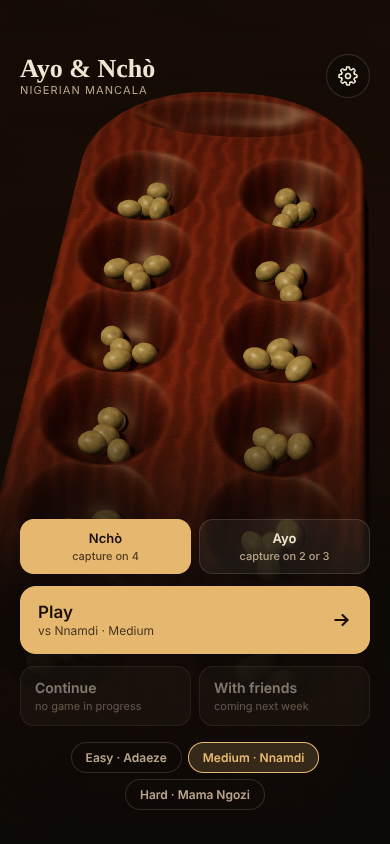
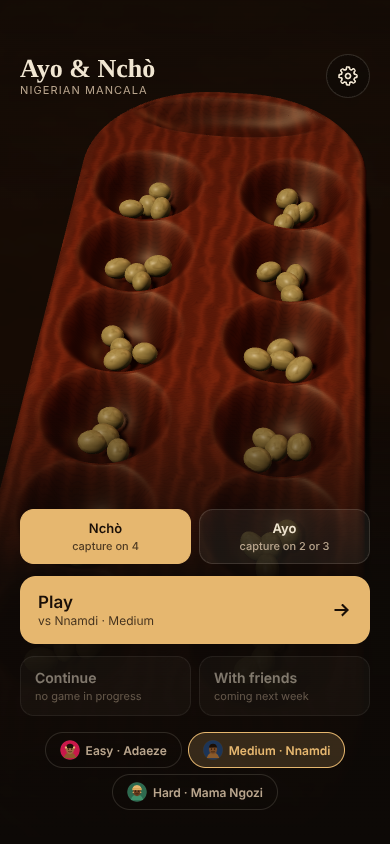
V1: opponents with faces, bios and lines; hint button; performance pass (pixel ratio, shadow map, pause when hidden)
Claude-Session: https://claude.ai/code/session_019fDoW7AW2ikR5MwVqx2pTM

diff --git a/web/game.js b/web/game.js
@@ -2,6 +2,7 @@
 import * as THREE from 'three';
 import { newGame, applyMove, legalMoves, replay, RULES } from '/engine/ayo.js';
 import { SeedSim } from './physics.js';
+import { CHARACTERS, line } from './characters.js';
 import { buildBoard, buildTable, buildLights, seedMaterial, seedGeometry, SEED_R, pitCenters, storeCenters, surfaceY, bowl, PIT_R, PIT_D, STORE_RX, STORE_RZ, STORE_D, BT } from './board.js';
 
 const $ = (s) => document.querySelector(s);
@@ -12,13 +13,14 @@ const prefs = { get: (k, d) => { try { return localStorage.getItem('ayo.' + k) ?
 // ---------- renderer / scene ----------
 const canvas = $('#c');
 const renderer = new THREE.WebGLRenderer({ canvas, antialias: true, preserveDrawingBuffer: !!(params.get('still') || params.get('capture')) });
-renderer.setPixelRatio(Math.min(window.devicePixelRatio || 1, 2));
+const phone = Math.min(innerWidth, innerHeight) < 500;
+renderer.setPixelRatio(Math.min(window.devicePixelRatio || 1, phone ? 1.5 : 2));
 renderer.shadowMap.enabled = true; renderer.shadowMap.type = THREE.PCFSoftShadowMap;
 renderer.toneMapping = THREE.ACESFilmicToneMapping; renderer.toneMappingExposure = 1.15; renderer.outputColorSpace = THREE.SRGBColorSpace;
 const scene = new THREE.Scene(); scene.background = new THREE.Color(0x0d0906);
 const camera = new THREE.PerspectiveCamera(38, 1, 0.05, 20);
 const finish = params.get('finish') || prefs.get('finish', 'mahogany');
-const board = buildBoard(scene, finish); buildTable(scene); buildLights(scene);
+const board = buildBoard(scene, finish); buildTable(scene); buildLights(scene, phone || (window.devicePixelRatio || 1) > 2 ? 1024 : 2048);
 const seedMat = seedMaterial();
 const sim = new SeedSim();
 
@@ -163,9 +165,24 @@ let state = newGame(settings.game, settings.rules()); let busy = false; let sele
 let stats = { biggest: 0, captures: 0, started: Date.now() };
 
 const worker = new Worker('./ai-worker.js', { type: 'module' });
-function aiMove(s) { return new Promise((res) => { worker.onmessage = (e) => res(e.data); worker.postMessage({ state: s, level }); }); }
+function aiMove(s, lvl = level) { return new Promise((res) => { worker.onmessage = (e) => res(e.data); worker.postMessage({ state: s, level: lvl }); }); }
+let hintedAt = -1;
+async function hint() {
+  if (busy || state.over || state.turn !== you || hintedAt === state.moves.length) return;
+  hintedAt = state.moves.length; $('#hintBtn').disabled = true;
+  const m = await aiMove(state, 'hard'); if (m === null || state.turn !== you) return;
+  const [x, z] = pitCenters[m]; board.ring.position.x = x; board.ring.position.z = z; board.ring.visible = true; board.glow.position.set(x, BT + 0.08, z); board.glow.visible = true; click(1.6, 0.05);
+  $('#hint').textContent = `${CHARACTERS.hard.name} would play that one`;
+  await wait(1500); if (selected === null) { board.ring.visible = false; board.glow.visible = false; } showTurn();
+}
 
+function paintFaces() {
+  $('#oppFace').innerHTML = CHARACTERS[level].face;
+  document.querySelectorAll('.pill[data-level]').forEach((b) => { b.querySelector('.face').innerHTML = CHARACTERS[b.dataset.level].face; });
+  document.querySelectorAll('[data-face]').forEach((f) => { f.innerHTML = CHARACTERS[f.dataset.face].face; });
+}
 function refreshStatic() {
+  paintFaces();
   state.pits.forEach((n, i) => setBadge(i, n));
   $('#myScore').textContent = state.stores[0]; $('#oppScore').textContent = state.stores[1];
   $('#oppName').textContent = levelLabel(level);
@@ -177,6 +194,7 @@ function showTurn() {
   $('#oppSub').textContent = state.over ? '' : mine ? 'waiting' : 'thinking…';
   $('#hint').textContent = state.over ? '' : mine ? (selected === null ? 'tap a pit on your side to sow' : 'tap again to sow, or pick another') : '';
   $('#undo').disabled = busy || state.moves.length < 2;
+  $('#hintBtn').disabled = !mine || busy || hintedAt === state.moves.length;
 }
 function select(i) {
   selected = i; const [x, z] = pitCenters[i]; board.ring.position.x = x; board.ring.position.z = z; board.ring.visible = true;
@@ -221,6 +239,8 @@ async function play(pit) {
   const prevStores = state.stores; const mover = state.turn; state = next; busy = true; deselect(); $('#undo').disabled = true;
   if (mover === you) { const got = state.stores[0] - prevStores[0]; stats.biggest = Math.max(stats.biggest, got); stats.captures += events.filter((e) => e.type === 'capture' && e.by === you).length; }
   tipFor(events);
+  const aiGot = state.stores[1] - prevStores[1], meGot = state.stores[0] - prevStores[0];
+  if (mover === ai && aiGot > 0) setTimeout(() => say('capture'), 400); else if (mover === you && meGot >= 4) setTimeout(() => say('lost'), 400);
   await animate(events, prevStores);
   busy = false; refreshStatic(); save();
   if (state.over) return gameOver();
@@ -256,6 +276,11 @@ function paintSettings() {
   const sw = (name, on) => $(`[data-set="${name}"].sw`).setAttribute('aria-checked', String(on));
   sw('last8', r.last8); sw('badges', prefs.get('badges', '1') === '1'); sw('sound', soundOn()); sw('haptics', prefs.get('haptics', '1') === '1');
   document.querySelectorAll('.choose[data-level]').forEach((b) => { const on = b.dataset.level === level; b.setAttribute('aria-pressed', on); b.textContent = on ? 'Chosen' : 'Choose'; });
+}
+let bubbleTimer = null;
+function say(moment) {
+  const text = line(level, moment); if (!text || params.get('still')) return;
+  const b = $('#bubble'); b.textContent = text; b.hidden = false; clearTimeout(bubbleTimer); bubbleTimer = setTimeout(() => { b.hidden = true; }, 2600);
 }
 function toast(text) { const t = document.createElement('div'); t.className = 'toast'; t.textContent = text; body.appendChild(t); setTimeout(() => t.remove(), 1800); }
 
@@ -303,7 +328,7 @@ function gameOver() {
   $('#goMe').classList.toggle('win', a >= b); $('#goOpp').classList.toggle('win', b > a);
   $('#goBig').textContent = `${stats.biggest} seeds`; $('#goCaps').textContent = stats.captures;
   const secs = Math.round((Date.now() - stats.started) / 1000); $('#goTime').textContent = `${Math.floor(secs / 60)}:${String(secs % 60).padStart(2, '0')}`;
-  $('#gameover').hidden = false; prefs.set('game', 'null');
+  $('#gameover').hidden = false; prefs.set('game', 'null'); say(win ? 'lose' : 'win');
   if (win) { click(1.5, 0.15); setTimeout(() => click(2, 0.15), 120); setTimeout(() => click(2.5, 0.15), 240); }
 }
 $('#replayBtn').addEventListener('click', async () => {
@@ -330,12 +355,12 @@ function resume() {
   try { const g = JSON.parse(prefs.get('game', 'null')); if (g && g.moves && g.moves.length && !params.get('still')) { state = replay(g.moves, g.variant, g.rules); level = g.level || level; stats = g.stats || stats; return !state.over; } } catch {}
   return false;
 }
-function newRound() { state = newGame(settings.game, settings.rules()); stats = { biggest: 0, captures: 0, started: Date.now() }; layoutFromState(state); refreshStatic(); $('#gameover').hidden = true; deselect(); save(); paintRules(); }
+function newRound() { state = newGame(settings.game, settings.rules()); stats = { biggest: 0, captures: 0, started: Date.now() }; layoutFromState(state); refreshStatic(); $('#gameover').hidden = true; deselect(); save(); paintRules(); setTimeout(() => say('start'), 600); }
 function kickAi() { if (state.turn === ai && !state.over) (async () => { busy = true; await wait(400); busy = false; const m = await aiMove(state); if (m !== null) { select(m); await wait(500); await play(m); } })(); }
 function undo() {
   if (busy || state.moves.length < 2) return;
   const moves = state.moves.slice(0, state.turn === you ? -2 : -1);
-  state = replay(moves, state.variant, state.rules); layoutFromState(state); refreshStatic(); deselect(); save(); click(0.7, 0.06);
+  state = replay(moves, state.variant, state.rules); layoutFromState(state); refreshStatic(); deselect(); save(); click(0.7, 0.06); say('undo');
 }
 function paintRules() { $('#rulesNcho').hidden = state.variant !== 'ncho'; $('#rulesAyo').hidden = state.variant !== 'ayo'; $('#gameName').textContent = state.variant === 'ncho' ? 'Nchò' : 'Ayo'; }
 
@@ -391,6 +416,7 @@ canvas.addEventListener('wheel', (e) => { dist += e.deltaY * 0.001; clampDist();
 function shake(pit) { const [x, z] = pitCenters[pit]; board.ring.position.x = x; board.ring.position.z = z; board.ring.visible = true; tween(260, (t) => { board.ring.position.x = x + Math.sin(t * Math.PI * 4) * 0.006 * (1 - t); }).then(() => { if (selected === null) board.ring.visible = false; else { board.ring.position.x = pitCenters[selected][0]; board.ring.position.z = pitCenters[selected][1]; } }); click(0.5, 0.05); }
 
 $('#undo').addEventListener('click', undo);
+$('#hintBtn').addEventListener('click', hint);
 $('#rematch').addEventListener('click', () => { newRound(); showScreen('play'); });
 $('#rulesBtn').addEventListener('click', () => { $('#rules').hidden = !$('#rules').hidden; });
 $('#rulesClose').addEventListener('click', () => { $('#rules').hidden = true; });
@@ -413,7 +439,11 @@ let frames = 0, last = performance.now();
 function loop(now) {
   runTweens(now); sim.step((now - last) / 1000, now); if (idle && !reduceMotion) theta += (now - last) * 0.00004; last = now; placeCam(); placeBadges(); renderer.render(scene, camera); frames++;
   if (frames === 3) { window.__done = true; if (params.get("still")) return; }
-  if (window.__freeze) return;
-  requestAnimationFrame(loop);
+  if (window.__freeze || document.hidden) return;
+  let hiddenAt = null;
+document.addEventListener('visibilitychange', () => { if (document.hidden) hiddenAt = performance.now(); else { last = performance.now(); if (hiddenAt !== null) requestAnimationFrame(loop); hiddenAt = null; } });
+requestAnimationFrame(loop);
 }
+let hiddenAt = null;
+document.addEventListener('visibilitychange', () => { if (document.hidden) hiddenAt = performance.now(); else { last = performance.now(); if (hiddenAt !== null) requestAnimationFrame(loop); hiddenAt = null; } });
 requestAnimationFrame(loop);

diff --git a/web/index.html b/web/index.html
@@ -109,6 +109,14 @@ button{font-family:inherit}
 .mini div{display:flex;flex-direction:column;gap:2px;padding:10px 12px;border-radius:12px;background:var(--soft)}
 .mini span{font-size:11px;color:var(--muted)}.mini b{font-size:15px;font-weight:600}
 
+/* opponent faces and speech */
+.who{display:flex;align-items:center;gap:10px;min-width:0}
+.face{display:inline-block;width:36px;height:36px;border-radius:50%;overflow:hidden;flex:none;background:var(--soft);border:1px solid var(--line)}
+.face.s{width:20px;height:20px;margin-right:6px;vertical-align:middle;border:0}
+.face.m{width:40px;height:40px}
+.pill{display:inline-flex;align-items:center}
+#bubble{position:fixed;left:max(18px,env(safe-area-inset-left,0px));top:calc(env(safe-area-inset-top,0px) + 64px);max-width:min(70vw,280px);background:var(--card);border:1px solid rgba(230,183,111,.35);border-radius:14px 14px 14px 4px;padding:9px 12px;font-size:13px;line-height:1.4;box-shadow:0 10px 30px rgba(0,0,0,.5);animation:pop .25s ease-out;pointer-events:none;z-index:2}
+.wide #bubble{left:max(24px,env(safe-area-inset-left,0px));top:calc(env(safe-area-inset-top,0px) + 100px)}
 /* tutorial */
 #tip{position:fixed;left:50%;transform:translateX(-50%);bottom:calc(env(safe-area-inset-bottom,0px) + 150px);width:min(86vw,320px);background:var(--card);border:1px solid rgba(230,183,111,.35);border-radius:14px;padding:12px 14px;display:flex;gap:10px;align-items:flex-start;box-shadow:0 12px 40px rgba(0,0,0,.5);animation:pop .3s ease-out;z-index:3}
 #tip p{margin:0;font-size:13px;line-height:1.45;flex:1}
@@ -134,12 +142,14 @@ button{font-family:inherit}
 <body class="screen">
 <canvas id="c" aria-label="Ayo board"></canvas>
 <div id="badges" aria-hidden="true"></div>
-<div class="hud top"><div class="col"><span class="name" id="oppName">Nnamdi · Medium</span><span class="sub" id="oppSub">waiting</span></div><div class="col r"><span class="score" id="oppScore">0</span><span class="lab">captured</span></div></div>
+<div class="hud top"><div class="who"><span class="face" id="oppFace"></span><div class="col"><span class="name" id="oppName">Nnamdi · Medium</span><span class="sub" id="oppSub">waiting</span></div></div><div class="col r"><span class="score" id="oppScore">0</span><span class="lab">captured</span></div></div>
 <div id="hint" role="status"></div>
+<div id="bubble" hidden role="status"></div>
 <div class="hud bottom"><div class="col"><span class="score" id="myScore">0</span><span class="lab">captured</span></div><div class="col r"><span class="name">Meka</span><span class="sub" id="turn">your move</span></div></div>
 <div class="bar">
   <button class="chip" id="homeBtn" aria-label="Home"><svg width="18" height="18" viewBox="0 0 24 24" fill="none" stroke="currentColor" stroke-width="2" aria-hidden="true"><path d="M3 11l9-8 9 8v9a1 1 0 0 1-1 1h-5v-6h-6v6H4a1 1 0 0 1-1-1z"/></svg></button>
   <button class="chip" id="undo" aria-label="Undo"><svg width="18" height="18" viewBox="0 0 24 24" fill="none" stroke="currentColor" stroke-width="2" aria-hidden="true"><path d="M9 14 4 9l5-5"/><path d="M4 9h11a5 5 0 0 1 0 10h-3"/></svg></button>
+  <button class="chip" id="hintBtn" aria-label="Hint"><svg width="18" height="18" viewBox="0 0 24 24" fill="none" stroke="currentColor" stroke-width="2" aria-hidden="true"><path d="M9 18h6M10 21h4M12 3a6 6 0 0 0-4 10.5c.7.6 1 1.3 1 2.5h6c0-1.2.3-1.9 1-2.5A6 6 0 0 0 12 3z"/></svg></button>
   <button class="chip" id="rulesBtn" aria-label="Rules"><svg width="18" height="18" viewBox="0 0 24 24" fill="none" stroke="currentColor" stroke-width="2" aria-hidden="true"><circle cx="12" cy="12" r="9"/><path d="M12 16v-4M12 8h.01"/></svg></button>
   <button class="chip" id="soundBtn" aria-label="Sound" aria-pressed="true"><svg width="18" height="18" viewBox="0 0 24 24" fill="none" stroke="currentColor" stroke-width="2" aria-hidden="true"><path d="M4 9v6h4l5 4V5L8 9H4z"/><path d="M16 9a4 4 0 0 1 0 6"/></svg></button>
   <button class="chip" id="settingsBtn" aria-label="Settings"><svg width="18" height="18" viewBox="0 0 24 24" fill="none" stroke="currentColor" stroke-width="2" aria-hidden="true"><circle cx="12" cy="12" r="3"/><path d="M19.4 15a1.7 1.7 0 0 0 .3 1.8l.1.1a2 2 0 1 1-2.8 2.8l-.1-.1a1.7 1.7 0 0 0-1.8-.3 1.7 1.7 0 0 0-1 1.5V21a2 2 0 1 1-4 0v-.1a1.7 1.7 0 0 0-1.1-1.5 1.7 1.7 0 0 0-1.8.3l-.1.1a2 2 0 1 1-2.8-2.8l.1-.1a1.7 1.7 0 0 0 .3-1.8 1.7 1.7 0 0 0-1.5-1H3a2 2 0 1 1 0-4h.1a1.7 1.7 0 0 0 1.5-1.1 1.7 1.7 0 0 0-.3-1.8l-.1-.1a2 2 0 1 1 2.8-2.8l.1.1a1.7 1.7 0 0 0 1.8.3H9a1.7 1.7 0 0 0 1-1.5V3a2 2 0 1 1 4 0v.1a1.7 1.7 0 0 0 1 1.5 1.7 1.7 0 0 0 1.8-.3l.1-.1a2 2 0 1 1 2.8 2.8l-.1.1a1.7 1.7 0 0 0-.3 1.8V9a1.7 1.7 0 0 0 1.5 1H21a2 2 0 1 1 0 4h-.1a1.7 1.7 0 0 0-1.5 1z"/></svg></button>
@@ -162,9 +172,9 @@ button{font-family:inherit}
       <button id="friendsBtn" disabled><b>With friends</b><small>coming next week</small></button>
     </div>
     <div class="pills" role="group" aria-label="Opponent">
-      <button class="pill" data-level="easy" aria-pressed="false">Easy · Adaeze</button>
-      <button class="pill" data-level="medium" aria-pressed="true">Medium · Nnamdi</button>
-      <button class="pill" data-level="hard" aria-pressed="false">Hard · Mama Ngozi</button>
+      <button class="pill" data-level="easy" aria-pressed="false"><span class="face s"></span>Easy · Adaeze</button>
+      <button class="pill" data-level="medium" aria-pressed="true"><span class="face s"></span>Medium · Nnamdi</button>
+      <button class="pill" data-level="hard" aria-pressed="false"><span class="face s"></span>Hard · Mama Ngozi</button>
     </div>
   </div>
 </section>
@@ -198,9 +208,9 @@ button{font-family:inherit}
     </div>
     <div class="group"><span class="eyebrow">Opponent</span>
       <div class="box" id="oppRows">
-        <div class="row"><div class="t"><b>Adaeze</b><span>Easy · plays like a child</span></div><button class="choose" data-level="easy">Choose</button></div>
-        <div class="row"><div class="t"><b>Nnamdi</b><span>Medium · plans two moves ahead</span></div><button class="choose" data-level="medium">Choose</button></div>
-        <div class="row"><div class="t"><b>Mama Ngozi</b><span>Hard · the market champion</span></div><button class="choose" data-level="hard">Choose</button></div>
+        <div class="row"><div class="who"><span class="face m" data-face="easy"></span><div class="t"><b>Adaeze</b><span>Easy · nine years old and sure she is winning</span></div></div><button class="choose" data-level="easy">Choose</button></div>
+        <div class="row"><div class="who"><span class="face m" data-face="medium"></span><div class="t"><b>Nnamdi</b><span>Medium · your quick cousin, talks more than he plans</span></div></div><button class="choose" data-level="medium">Choose</button></div>
+        <div class="row"><div class="who"><span class="face m" data-face="hard"></span><div class="t"><b>Mama Ngozi</b><span>Hard · thirty years at the market</span></div></div><button class="choose" data-level="hard">Choose</button></div>
       </div>
     </div>
     <button class="btn quiet" id="settingsRules">How to play · Credits</button>

diff --git a/web/characters.js b/web/characters.js
@@ -1,0 +1,54 @@
+// The three opponents: a face (simple vector portrait), a bio and lines for the moments that matter.
+// Lines are short, warm and Nigerian in cadence without laying it on thick.
+const face = (skin, hair, cloth, extra = '') => `<svg viewBox="0 0 64 64" width="100%" height="100%" aria-hidden="true">
+  <circle cx="32" cy="32" r="31" fill="${cloth}"/>
+  <path d="M12 58c3-12 11-18 20-18s17 6 20 18" fill="${cloth === '#2d6a4f' ? '#40916c' : '#8a5a2b'}"/>
+  <ellipse cx="32" cy="30" rx="13" ry="15" fill="${skin}"/>
+  ${hair}
+  <circle cx="27" cy="29" r="1.8" fill="#1a0f07"/><circle cx="37" cy="29" r="1.8" fill="#1a0f07"/>
+  ${extra}
+</svg>`;
+
+export const CHARACTERS = {
+  easy: {
+    name: 'Adaeze', level: 'Easy', bio: 'Nine years old and already sure she is winning.',
+    face: face('#9c6b3f', '<path d="M19 26c0-9 6-14 13-14s13 5 13 14" fill="#1a0f07"/><circle cx="19" cy="24" r="3.5" fill="#e6b76f"/><circle cx="45" cy="24" r="3.5" fill="#e6b76f"/>', '#c9184a', '<path d="M27 36q5 4 10 0" stroke="#1a0f07" stroke-width="1.6" fill="none" stroke-linecap="round"/>'),
+    lines: {
+      start: ['Me first? No, you first. Go!', 'I will be gentle. Maybe.'],
+      capture: ['Mine! All mine!', 'Did you see that? Four!', 'Hehe. Thank you.'],
+      lost: ['Ah ah, that one was mine!', 'Not fair. OK, fair.', 'I was keeping those!'],
+      undo: ['Heh, no take-backs… fine.', 'I saw that.'],
+      win: ['I won! Can we play again?', 'Told you I was winning.'],
+      lose: ['Again! One more!', 'You only won because I let you.'],
+    },
+  },
+  medium: {
+    name: 'Nnamdi', level: 'Medium', bio: 'Your quick cousin. Talks more than he plans, plans more than you think.',
+    face: face('#7a4a24', '<path d="M19 24c1-9 7-12 13-12s12 3 13 12" fill="#1a0f07"/>', '#1d3557', '<path d="M26 37q6 3 12 0" stroke="#1a0f07" stroke-width="1.6" fill="none" stroke-linecap="round"/><path d="M22 24l9-2" stroke="#1a0f07" stroke-width="1.4" stroke-linecap="round"/>'),
+    lines: {
+      start: ['Relax, I\'ll go easy. Small small.', 'Loser carries the board.'],
+      capture: ['Chop. That\'s how we do it.', 'Four seeds, no stress.', 'You left that one open, o.'],
+      lost: ['Ehn? Who taught you that?', 'OK… OK. I see you.', 'That was my pit!'],
+      undo: ['Undo? In Lagos we call that a loan.', 'I\'ll allow it. Once.'],
+      win: ['Cousin, I warned you.', 'GG. Buy me suya.'],
+      lose: ['Best of three. Obviously.', 'My phone was lagging.'],
+    },
+  },
+  hard: {
+    name: 'Mama Ngozi', level: 'Hard', bio: 'Thirty years at the market, ten thousand games on the same board.',
+    face: face('#6b3d1e', '<path d="M17 22c3-10 10-12 15-12s12 2 15 12v4H17z" fill="#e6b76f"/><path d="M17 22h30" stroke="#b8862b" stroke-width="2"/>', '#2d6a4f', '<path d="M27 37q5 2 10 0" stroke="#1a0f07" stroke-width="1.6" fill="none" stroke-linecap="round"/><circle cx="20" cy="33" r="2" fill="#e6b76f"/><circle cx="44" cy="33" r="2" fill="#e6b76f"/>'),
+    lines: {
+      start: ['Sit well. This will take a while.', 'I have seen that opening before.'],
+      capture: ['Patience is a seed too.', 'You counted. You just counted wrong.', 'Mm-hm.'],
+      lost: ['Good. Now do it twice.', 'I gave you that one.', 'Noted.'],
+      undo: ['Undo all you like, child.', 'The board remembers.'],
+      win: ['Come back when you have practised.', 'The board does not lie.'],
+      lose: ['Well played. I mean it.', 'Hm. I taught you too well.'],
+    },
+  },
+};
+
+export function line(level, moment) {
+  const c = CHARACTERS[level] || CHARACTERS.medium; const arr = c.lines[moment] || [];
+  return arr[Math.floor(Math.random() * arr.length)] || '';
+}

diff --git a/web/board.js b/web/board.js
@@ -83,9 +83,9 @@ export function buildTable(scene) {
   const m = new THREE.Mesh(g, new THREE.MeshStandardMaterial({ map: t, roughness: 0.95 })); m.receiveShadow = true; m.position.y = -0.0005; scene.add(m);
 }
 
-export function buildLights(scene) {
+export function buildLights(scene, shadowSize = 2048) {
   scene.add(new THREE.HemisphereLight(0xffe2c0, 0x1a0e07, 0.55));
-  const key = new THREE.DirectionalLight(0xffd4a4, 2.6); key.position.set(-0.9, 1.6, 0.6); key.castShadow = true; key.shadow.mapSize.set(2048, 2048);
+  const key = new THREE.DirectionalLight(0xffd4a4, 2.6); key.position.set(-0.9, 1.6, 0.6); key.castShadow = true; key.shadow.mapSize.set(shadowSize, shadowSize);
   key.shadow.camera.left = -0.8; key.shadow.camera.right = 0.8; key.shadow.camera.top = 0.9; key.shadow.camera.bottom = -0.9; key.shadow.camera.near = 0.2; key.shadow.camera.far = 5; key.shadow.bias = -0.0004; key.shadow.normalBias = 0.004; scene.add(key);
   const rim = new THREE.DirectionalLight(0xffb070, 0.7); rim.position.set(0.8, 0.9, -1.2); scene.add(rim);
   const fill = new THREE.PointLight(0xffe8d0, 0.25, 4); fill.position.set(0.9, 1.4, 1.3); scene.add(fill);

diff --git a/docs/build-plan.md b/docs/build-plan.md
@@ -67,10 +67,10 @@ Status key: `[ ]` open · `[~]` started, what remains noted · `[x]` done · `[!
 - [x] Installable (manifest, icons, service worker caching the shell, engine and three.js): offline play vs computer with no signal
 
 ### Sun 1 Nov — opponents with character, polish, deploy
-- [ ] Three named opponents with a face and a line or two (an elder who takes his time, a quick cousin, a market champion); reactions when captured from
-- [ ] Performance pass: 60fps on the Fold, battery-friendly idle, textures cached, lighter textures on slow connections
+- [x] Three opponents with a vector face, a bio and lines (Adaeze the playful child, Nnamdi the cheeky cousin, Mama Ngozi the dry market champion): they speak at game start, when they capture, when they lose a pit of 4+, when you undo, and when the game ends; faces on the HUD, Home pills and Settings
+- [~] Performance pass: pixel ratio capped at 1.5 on phones, 1024 shadow map on phones and high-dpr screens, render loop paused when the tab is hidden; remains: measure on the real Fold, lighter textures on slow connections
 - [ ] Deployed on Render from mekaminu/ayo-ncho; health check; Meka's test link on the tracker
-- [ ] Hint: the Hard opponent's best move, lit on the board
+- [x] Hint: Mama Ngozi's best move lit on the board for 1.5 s, one hint per turn
 
 ### Mon 2 Nov — Meka's test and the fixes from it
 - [ ] Every fix Meka reports from the Fold and the Mac
